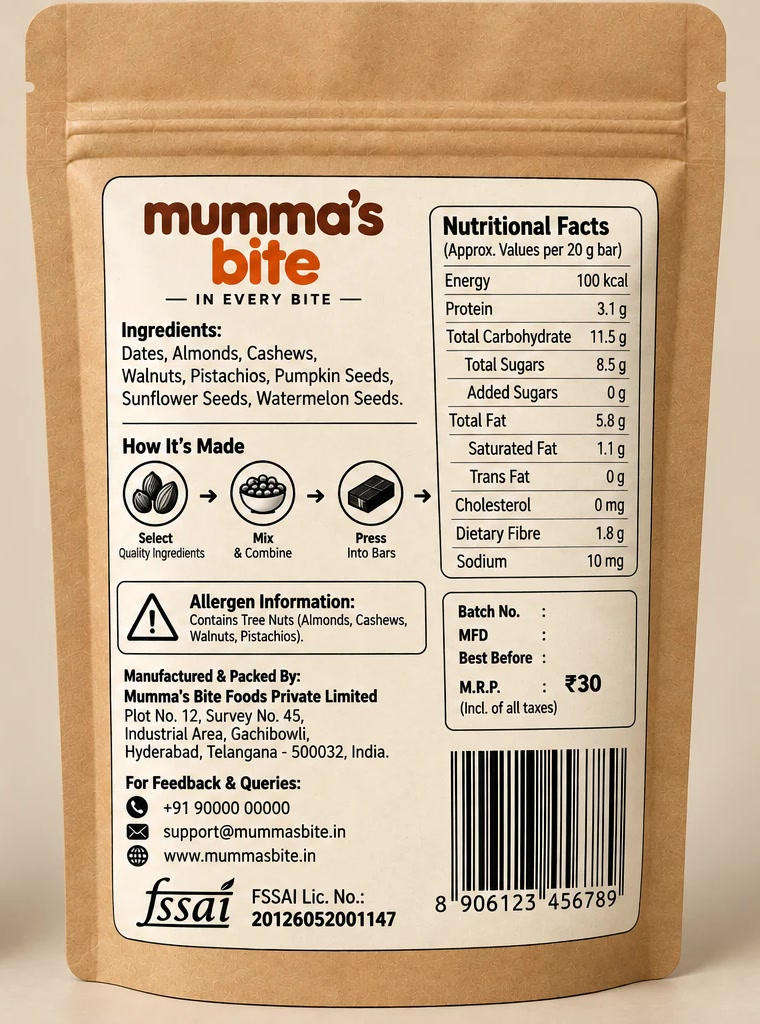
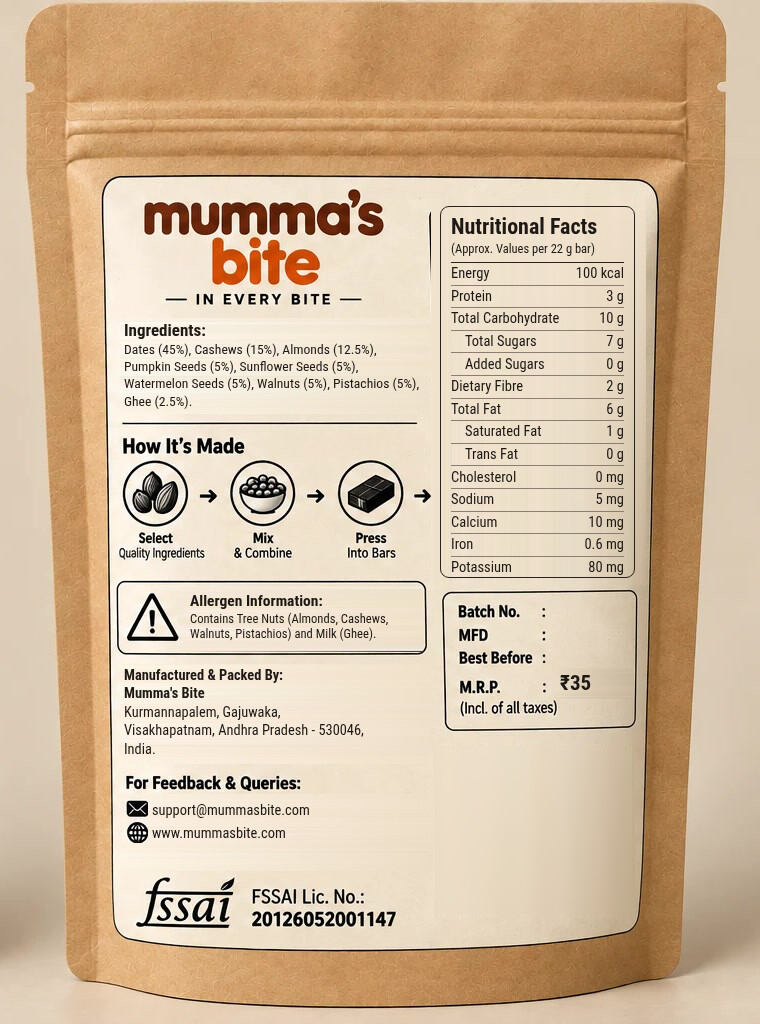
Update Dry Fruit photos and recipe to the 22 g / ₹35 bar
- Pouch front and lifestyle photos now read 22 g, ₹35 each and 3 g protein per 22 g bar
- Back label rebuilt with the ReciPal nutrition (100 kcal per 22 g), ingredient percentages
  in descending order including ghee, milk allergen, the real Visakhapatnam address and
  support email; placeholder phone number and barcode removed
- FAQ and fallback product data updated to the new recipe (ghee 2.5%, milk allergen)

Claude-Session: https://claude.ai/code/session_01J7tbbFmR32MsynogRWPkhQ

diff --git a/src/lib/commerce/mock/products.ts b/src/lib/commerce/mock/products.ts
@@ -28,7 +28,7 @@ export const mockProducts: Product[] = [
     title: "Dry Fruit Energy Bar",
     shortDescription: "Dates, nuts and seeds, pressed into one honest bar.",
     description:
-      "Soft dates with almonds, cashews, pistachios and walnuts, and a sprinkle of pumpkin, sunflower and watermelon seeds. A bar that tastes like something made at home. Each bar is about 4 × 5 cm.",
+      "Soft dates with cashews, almonds, walnuts and pistachios, a sprinkle of pumpkin, sunflower and watermelon seeds, and a touch of ghee. A bar that tastes like something made at home. Each bar is about 4 × 5 cm.",
     featuredImage: img("dryfruit-front.jpg", "Mumma's Bite Dry Fruit Energy Bar pouch, front"),
     images: [
       img("dryfruit-front.jpg", "Mumma's Bite Dry Fruit Energy Bar pouch, front"),
@@ -56,10 +56,10 @@ export const mockProducts: Product[] = [
       netQuantity: verified("22 g per bar · packs of 10 (220 g), 25 (550 g) or 50 (1.1 kg)"),
       claims: verified("No added sugar · No preservatives · 3 g protein per 22 g bar"),
       ingredients: verified(
-        "Dates (43%), almonds (19%), cashews (14%), pumpkin seeds (5%), sunflower seeds (5%), watermelon seeds (5%), pistachios (5%), walnuts (5%)",
+        "Dates (45%), cashews (15%), almonds (12.5%), pumpkin seeds (5%), sunflower seeds (5%), watermelon seeds (5%), walnuts (5%), pistachios (5%), ghee (2.5%)",
       ),
       nutrition: nutrition("22 g bar", [
-        ["Energy", "110 kcal"],
+        ["Energy", "100 kcal"],
         ["Protein", "3 g"],
         ["Total carbohydrate", "10 g"],
         ["Total sugars", "7 g"],
@@ -69,9 +69,12 @@ export const mockProducts: Product[] = [
         ["Saturated fat", "1 g"],
         ["Trans fat", "0 g"],
         ["Cholesterol", "0 mg"],
-        ["Sodium", "15 mg"],
+        ["Sodium", "5 mg"],
+        ["Calcium", "10 mg"],
+        ["Iron", "0.6 mg"],
+        ["Potassium", "80 mg"],
       ]),
-      allergens: verified("Contains tree nuts (almonds, cashews, walnuts, pistachios)."),
+      allergens: verified("Contains tree nuts (almonds, cashews, walnuts, pistachios) and milk (ghee)."),
       storage: unknown(),
       shelfLife: verified("30 days"),
       fssai: FSSAI,

diff --git a/src/components/shop/ShopFaq.tsx b/src/components/shop/ShopFaq.tsx
@@ -7,7 +7,7 @@ import { FREE_DELIVERY_MIN } from "@/lib/commerce/offers";
 const FAQ = [
   {
     q: "What's in Mumma's Bite bars?",
-    a: "The Dry Fruit Energy Bar is mostly dates (43%), with almonds (19%), cashews (14%), and pumpkin, sunflower and watermelon seeds, pistachios and walnuts (5% each). The Multi-Seed Energy Bar is dates, peanuts and pumpkin, sunflower, watermelon, sesame and flax seeds. Nothing else.",
+    a: "The Dry Fruit Energy Bar is mostly dates (45%), with cashews (15%), almonds (12.5%), pumpkin, sunflower and watermelon seeds, walnuts and pistachios (5% each), and a little ghee (2.5%). The Multi-Seed Energy Bar is dates, peanuts and pumpkin, sunflower, watermelon, sesame and flax seeds.",
   },
   {
     q: "Do the bars have added sugar?",
@@ -19,7 +19,7 @@ const FAQ = [
   },
   {
     q: "Are they a good snack for kids and for travel?",
-    a: "Each bar is about 4 × 5 cm, small enough for a school tiffin, an office drawer, a gym bag or a travel bag. Please note they contain tree nuts, peanuts and/or sesame.",
+    a: "Each bar is about 4 × 5 cm, small enough for a school tiffin, an office drawer, a gym bag or a travel bag. Please note they contain tree nuts, peanuts and/or sesame, and the Dry Fruit bar contains a little ghee (milk).",
   },
   {
     q: "How long do they last?",
